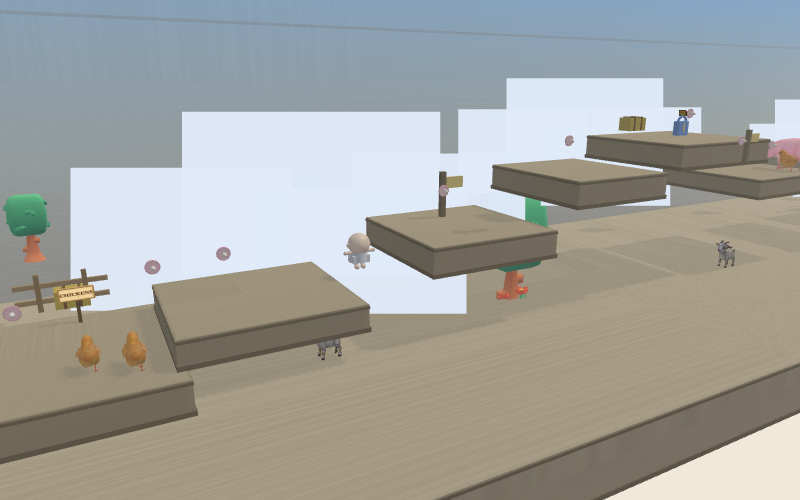
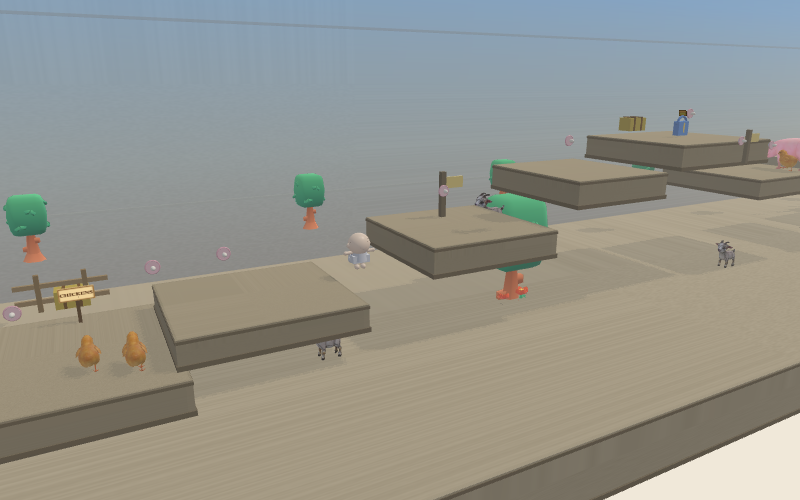
hotfix: fix clouds, level 2 decor cull, and floor pacifier loss

Changed region(s): [[0.0625, 0.15, 0.875, 0.63], [0.9375, 0.18, 1.0, 0.3], [0.7812, 0.33, 0.8438, 0.42]]

diff --git a/src/web3d/boot.js b/src/web3d/boot.js
@@ -435,14 +435,13 @@ function disableLevel2DecorMeshes(scene, { debugMode = false } = {}) {
     if (!mesh.isEnabled()) continue;
     if ((mesh.name || '').startsWith('L2_')) continue;
     if (mesh.metadata?.role === 'player' || mesh.metadata?.role === 'goal') continue;
-    if (mesh.metadata?.cameraIgnore === true) continue;
     mesh.computeWorldMatrix(true);
     const bi = mesh.getBoundingInfo?.();
     const ext = bi?.boundingBox?.extendSizeWorld;
     if (!ext) continue;
     const maxExtent = Math.max(ext.x, ext.y, ext.z);
     const volume = (ext.x * 2) * (ext.y * 2) * (ext.z * 2);
-    if (maxExtent > 40 || volume > 18000) {
+    if (maxExtent > 30 || volume > 9000) {
       mesh.setEnabled(false);
       const info = {
         name: mesh.name,
@@ -759,20 +758,29 @@ export async function boot(options = {}) {
   const availableModels = await getAvailableModels();
   const availableModelSet = new Set(availableModels);
   window.__DADA_DEBUG__.assetModels = availableModels;
-  const level1FloorTopY = levelId === 1
-    ? (() => {
-      const floorSurface = buildSurfaceBoundsFromVisual('floor', world.groundVisual, world.level?.ground
-        ? {
-          topY: world.level.ground.y + (world.level.ground.h * 0.5),
-          minX: world.level.ground.x - (world.level.ground.w * 0.5),
-          maxX: world.level.ground.x + (world.level.ground.w * 0.5),
-          minZ: (world.level.ground.z ?? 0) - (world.level.ground.d * 0.5),
-          maxZ: (world.level.ground.z ?? 0) + (world.level.ground.d * 0.5),
-        }
-        : null);
-      return floorSurface?.topY ?? null;
-    })()
+  const floorSurfaceFallback = world.level?.ground
+    ? {
+      topY: world.level.ground.y + (world.level.ground.h * 0.5),
+      minX: world.level.ground.x - (world.level.ground.w * 0.5),
+      maxX: world.level.ground.x + (world.level.ground.w * 0.5),
+      minZ: (world.level.ground.z ?? 0) - (world.level.ground.d * 0.5),
+      maxZ: (world.level.ground.z ?? 0) + (world.level.ground.d * 0.5),
+    }
     : null;
+  const currentFloorTopY = (() => {
+    if (world.ground instanceof BABYLON.Mesh) {
+      world.ground.computeWorldMatrix(true);
+      const groundBounds = world.ground.getBoundingInfo?.()?.boundingBox;
+      if (groundBounds) {
+        return groundBounds.maximumWorld.y;
+      }
+    }
+    return buildSurfaceBoundsFromVisual(
+      'floor',
+      world.groundVisual || world.ground,
+      floorSurfaceFallback,
+    )?.topY ?? null;
+  })();
   if (levelId === 1 && import.meta.env.DEV) {
     if (!availableModelSet.has('local_baby_pig')) {
       console.warn('[assets] missing local_baby_pig; skipping Level 1 pig decor');
@@ -1193,10 +1201,24 @@ export async function boot(options = {}) {
         fallbackMaterial: 'plastic',
         renderingGroupId: 2,
       });
-      if (result?.loaded && fallback) {
-        fallback.setEnabled(false);
-      }
       if (result?.loaded) {
+        for (const mesh of result.meshes || []) {
+          if (mesh.name && !mesh.name.startsWith('L2_') && !mesh.name.startsWith('L2_DECOR_')) {
+            mesh.name = `L2_DECOR_${mesh.name}`;
+          }
+          if (mesh.id && !mesh.id.startsWith('L2_') && !mesh.id.startsWith('L2_DECOR_')) {
+            mesh.id = `L2_DECOR_${mesh.id}`;
+          }
+          mesh.metadata = {
+            ...(mesh.metadata || {}),
+            decor: true,
+            level2Decor: true,
+            cameraIgnore: true,
+            cameraBlocker: false,
+          };
+          mesh.isPickable = false;
+          mesh.checkCollisions = false;
+        }
         const anchorPos = anchor.getAbsolutePosition();
         fitLoadedModel(anchor, {
           targetMaxSize: fit?.targetMaxSize ?? 0,
@@ -1204,6 +1226,12 @@ export async function boot(options = {}) {
           groundY: anchorPos.y + (fit?.groundOffset ?? 0),
           markDecorative: true,
         });
+        const cullResult = disableLevel2DecorMeshes(scene, { debugMode });
+        window.__DADA_DEBUG__.level2CullResult = cullResult;
+        if (fallback) {
+          const hasVisibleLoadedMesh = (result.meshes || []).some((mesh) => mesh?.isEnabled?.() && (mesh.visibility ?? 1) > 0.02);
+          fallback.setEnabled(!hasVisibleLoadedMesh);
+        }
       }
     }
   }
@@ -1408,7 +1436,7 @@ export async function boot(options = {}) {
         });
         if (result.loaded) {
           const surface = getLevel1DecorSurface(anchor);
-          const elephantGroundY = surface.baseY ?? (level1FloorTopY !== null ? level1FloorTopY + 0.02 : 0);
+          const elephantGroundY = surface.baseY ?? (currentFloorTopY !== null ? currentFloorTopY + 0.02 : 0);
           fitLoadedModel(result.roots, {
             targetHeight: 1.9,
             groundY: elephantGroundY,
@@ -1480,15 +1508,27 @@ export async function boot(options = {}) {
 
   function updateLevel1Clouds(dt) {
     if (levelId !== 1 || shotMode || !cloudCutouts.length) return;
+    const floorClampY = Number.isFinite(currentFloorTopY) ? currentFloorTopY : 0;
     for (const cloud of cloudCutouts) {
       if (!cloud?.position) continue;
       const speed = cloud.metadata?.driftSpeed ?? 0.08;
       const minX = cloud.metadata?.driftMinX ?? -28;
       const maxX = cloud.metadata?.driftMaxX ?? 58;
+      const minY = Math.max(
+        floorClampY + 8,
+        Number.isFinite(cloud.metadata?.driftMinY) ? cloud.metadata.driftMinY : floorClampY + 8,
+      );
+      const maxY = Math.max(minY + 0.5, cloud.metadata?.driftMaxY ?? (minY + 4));
+      const minZ = cloud.metadata?.driftMinZ ?? -30;
+      const maxZ = cloud.metadata?.driftMaxZ ?? -22;
       cloud.position.x += dt * speed;
       if (cloud.position.x > maxX) {
         cloud.position.x = minX;
       }
+      if (cloud.position.y < floorClampY + 8 || cloud.position.y < minY || cloud.position.y > maxY) {
+        cloud.position.y = clamp(cloud.metadata?.driftBaseY ?? minY, minY, maxY);
+      }
+      cloud.position.z = clamp(cloud.metadata?.driftBaseZ ?? cloud.position.z, minZ, maxZ);
     }
   }
 
@@ -1586,8 +1626,8 @@ export async function boot(options = {}) {
     }
   }
 
-  function triggerLevel1FloorPenalty() {
-    if (levelId !== 1 || level1FloorPenaltyCooldownMs > 0) return;
+  function triggerFloorPenalty() {
+    if (level1FloorPenaltyCooldownMs > 0) return;
     const collectedCoins = coins.filter((coin) => coin.collected);
     if (collectedCoins.length === 0) return;
     level1FloorPenaltyCooldownMs = 1500;
@@ -1601,6 +1641,9 @@ export async function boot(options = {}) {
     }
     const startCount = coinsCollected;
     coinsCollected = 0;
+    window.__DADA_DEBUG__.coinsCollected = coinsCollected;
+    window.__DADA_DEBUG__.lastFloorPenaltyLevel = levelId;
+    window.__DADA_DEBUG__.floorPenaltyCount = (window.__DADA_DEBUG__.floorPenaltyCount || 0) + 1;
     level1CoinLossAnim = {
       startCount,
       elapsedMs: 0,
@@ -1769,6 +1812,8 @@ export async function boot(options = {}) {
   window.__DADA_DEBUG__.lastRespawnReason = '';
   window.__DADA_DEBUG__.checkpointIndex = activeCheckpointIndex;
   window.__DADA_DEBUG__.onesieBuffMs = 0;
+  window.__DADA_DEBUG__.coinsCollected = coinsCollected;
+  window.__DADA_DEBUG__.floorTopY = currentFloorTopY;
   window.__DADA_DEBUG__.actors = actorState;
   if (debugMode) {
     const LANE_Z = 0;
@@ -1972,6 +2017,7 @@ export async function boot(options = {}) {
     onesieJumpBoost = 1;
     puddleInvulnMs = 0;
     coinsCollected = 0;
+    window.__DADA_DEBUG__.coinsCollected = coinsCollected;
     level1FloorPenaltyCooldownMs = 0;
     level1AirborneFromAboveFloor = false;
     level1MaxAirborneBottomY = player.mesh.position.y - player.getCollisionHalfExtents().halfH;
@@ -2009,6 +2055,7 @@ export async function boot(options = {}) {
     }
     coinsCollected = 0;
     ui.setCoins(0);
+    window.__DADA_DEBUG__.coinsCollected = coinsCollected;
     resetCrumbles();
     if (world.level2) world.level2.reset();
     if (world.level3) world.level3.reset();
@@ -2104,6 +2151,20 @@ export async function boot(options = {}) {
       updatePlayerShadow(player);
       return true;
     };
+    window.__DADA_DEBUG__.teleportPlayer = (x, y, z = 0) => {
+      player.spawnAt(x, y, z);
+      player.vx = 0;
+      player.vy = 0;
+      updatePlayerShadow(player);
+      return { x, y, z };
+    };
+    window.__DADA_DEBUG__.collectibles = () => coins.map((coin, index) => ({
+      index,
+      collected: coin.collected,
+      x: coin.position.x,
+      y: coin.position.y,
+      z: coin.position.z,
+    }));
   }
 
   // Single unconditional keydown handler on window — fires regardless of which
@@ -2284,6 +2345,7 @@ export async function boot(options = {}) {
         coin.collected = true;
         if (coin.node) coin.node.setEnabled(false);
         coinsCollected++;
+        window.__DADA_DEBUG__.coinsCollected = coinsCollected;
         audio.playCoin();
         juiceFx.spawnCoinSparkle(coin.position);
         ui.updateCoins(coinsCollected);
@@ -2607,19 +2669,22 @@ export async function boot(options = {}) {
           }
         }
 
-        if (levelId === 1 && level1FloorTopY !== null) {
+        if (currentFloorTopY !== null) {
           const afterBottomY = player.mesh.position.y - halfH;
           if (prevGrounded && !player.grounded) {
-            level1AirborneFromAboveFloor = (prevPlayerBottomY - level1FloorTopY) > 1.0;
             level1MaxAirborneBottomY = Math.max(prevPlayerBottomY, afterBottomY);
-          } else if (!player.grounded) {
-            level1MaxAirborneBottomY = Math.max(level1MaxAirborneBottomY, afterBottomY);
+          }
+          if (!player.grounded) {
+            if ((prevPlayerBottomY - currentFloorTopY) > 1.0 || (afterBottomY - currentFloorTopY) > 1.0) {
+              level1AirborneFromAboveFloor = true;
+            }
+            level1MaxAirborneBottomY = Math.max(level1MaxAirborneBottomY, prevPlayerBottomY, afterBottomY);
           }
           const landedThisFrame = !prevGrounded && player.grounded;
-          const nearFloor = Math.abs(afterBottomY - level1FloorTopY) < 0.25;
-          const fellFromAbove = (level1MaxAirborneBottomY - level1FloorTopY) > 1.0;
+          const nearFloor = Math.abs(afterBottomY - currentFloorTopY) < 0.25;
+          const fellFromAbove = (level1MaxAirborneBottomY - currentFloorTopY) > 1.0;
           if (landedThisFrame && nearFloor && fellFromAbove && level1AirborneFromAboveFloor) {
-            triggerLevel1FloorPenalty();
+            triggerFloorPenalty();
           }
           if (landedThisFrame) {
             level1AirborneFromAboveFloor = false;

diff --git a/src/web3d/world/buildWorld.js b/src/web3d/world/buildWorld.js
@@ -2060,21 +2060,34 @@ export function buildWorld(scene, options = {}) {
   setRenderingGroup(pzPanda2, 2);
 
   const cloudCutouts = [];
+  const cloudSkyMinY = Math.max(12, floorTopY + 8);
+  const cloudSkyMaxY = cloudSkyMinY + 4;
+  const cloudSkyMinZ = -24;
+  const cloudSkyMaxZ = -18;
+  const cloudSpanX = (LEVEL1.extents.maxX - LEVEL1.extents.minX) + 16;
   for (let i = 0; i < 12; i++) {
+    const xT = i / 11;
+    const y = cloudSkyMinY + (random() * (cloudSkyMaxY - cloudSkyMinY));
+    const z = cloudSkyMinZ + (random() * (cloudSkyMaxZ - cloudSkyMinZ));
     const cloud = createBillboardCloud(scene, `cloudCutout_${i}`, {
-      x: -22 + i * 6.1 + random() * 0.8,
-      y: 4.9 + random() * 1.2,
-      z: -6.4 - ((i % 3) * 0.9),
+      x: (LEVEL1.extents.minX - 8) + (cloudSpanX * xT) + ((random() - 0.5) * 1.6),
+      y,
+      z,
       scale: 1.6 + random() * 0.72,
     });
     cloud.metadata = {
       ...(cloud.metadata || {}),
       cameraIgnore: true,
       driftSpeed: 0.08 + ((i % 4) * 0.018),
-      driftMinX: -30,
-      driftMaxX: 58,
+      driftMinX: LEVEL1.extents.minX - 12,
+      driftMaxX: LEVEL1.extents.maxX + 12,
       driftStartX: cloud.position.x,
-      driftBaseY: cloud.position.y,
+      driftBaseY: y,
+      driftMinY: cloudSkyMinY,
+      driftMaxY: cloudSkyMaxY,
+      driftBaseZ: z,
+      driftMinZ: cloudSkyMinZ,
+      driftMaxZ: cloudSkyMaxZ,
       driftPhase: i * 0.58,
     };
     setRenderingGroup(cloud, 0);

diff --git a/src/web3d/world/buildWorld2.js b/src/web3d/world/buildWorld2.js
@@ -56,6 +56,12 @@ function prefixLevel2Gameplay(node) {
 
 function tagLevel2Decor(node) {
   for (const entry of collectLevel2Nodes(node)) {
+    if (entry.name && !entry.name.startsWith('L2_') && !entry.name.startsWith('L2_DECOR_')) {
+      entry.name = `L2_DECOR_${entry.name}`;
+    }
+    if (entry.id && !entry.id.startsWith('L2_') && !entry.id.startsWith('L2_DECOR_')) {
+      entry.id = `L2_DECOR_${entry.id}`;
+    }
     entry.metadata = {
       ...(entry.metadata || {}),
       decor: true,
